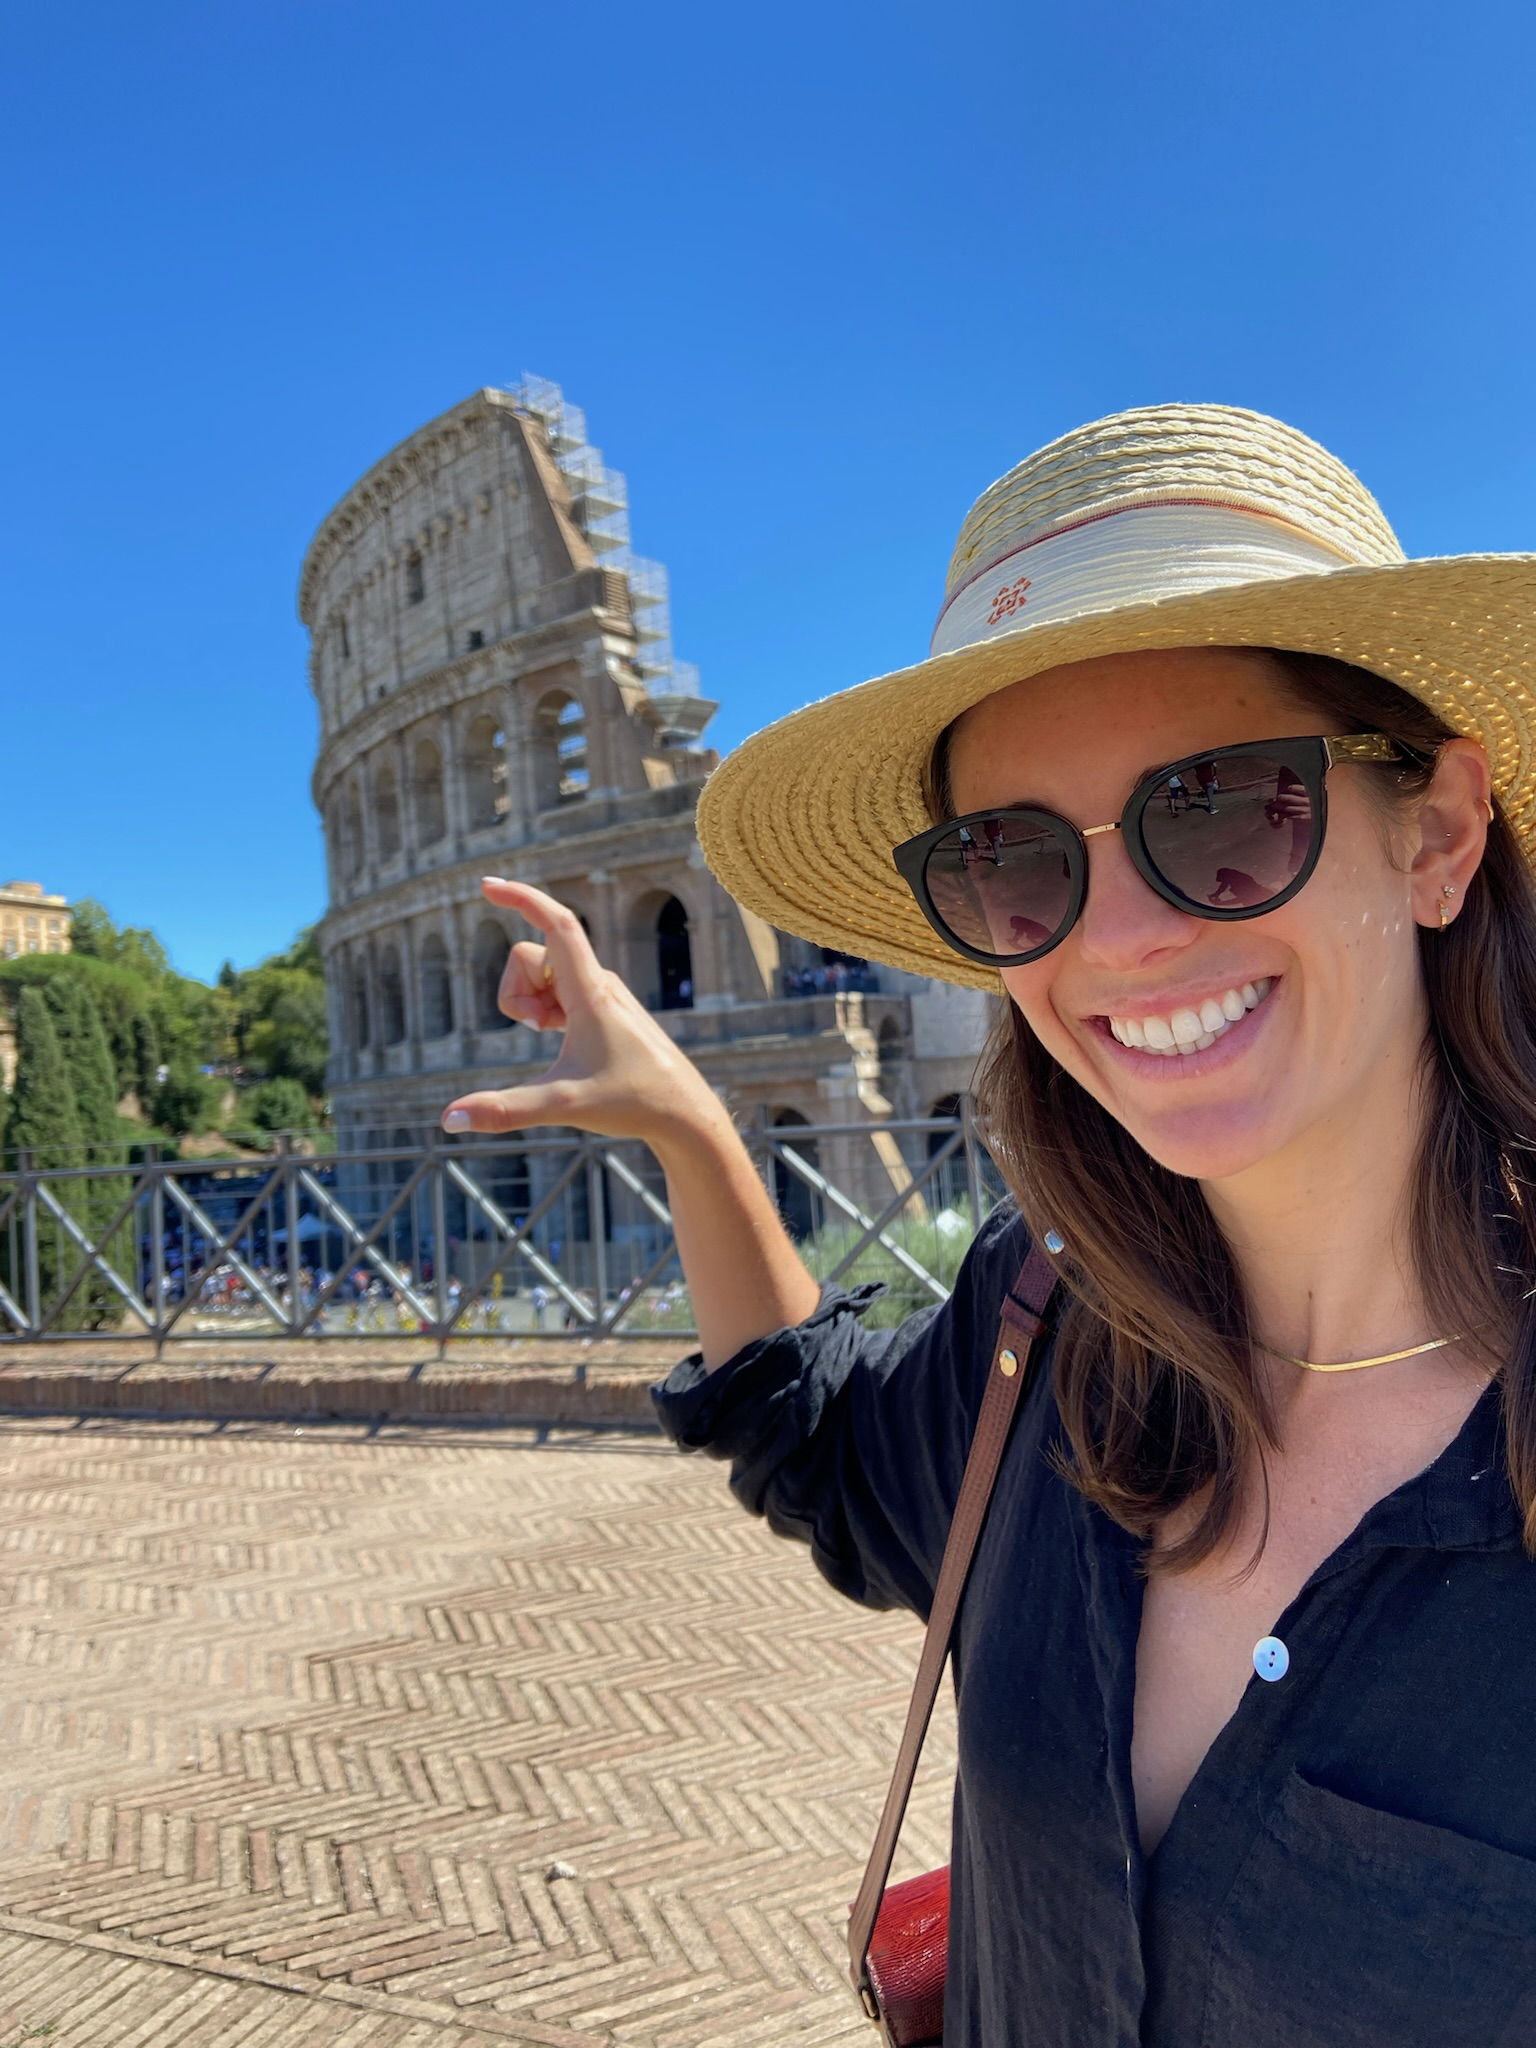
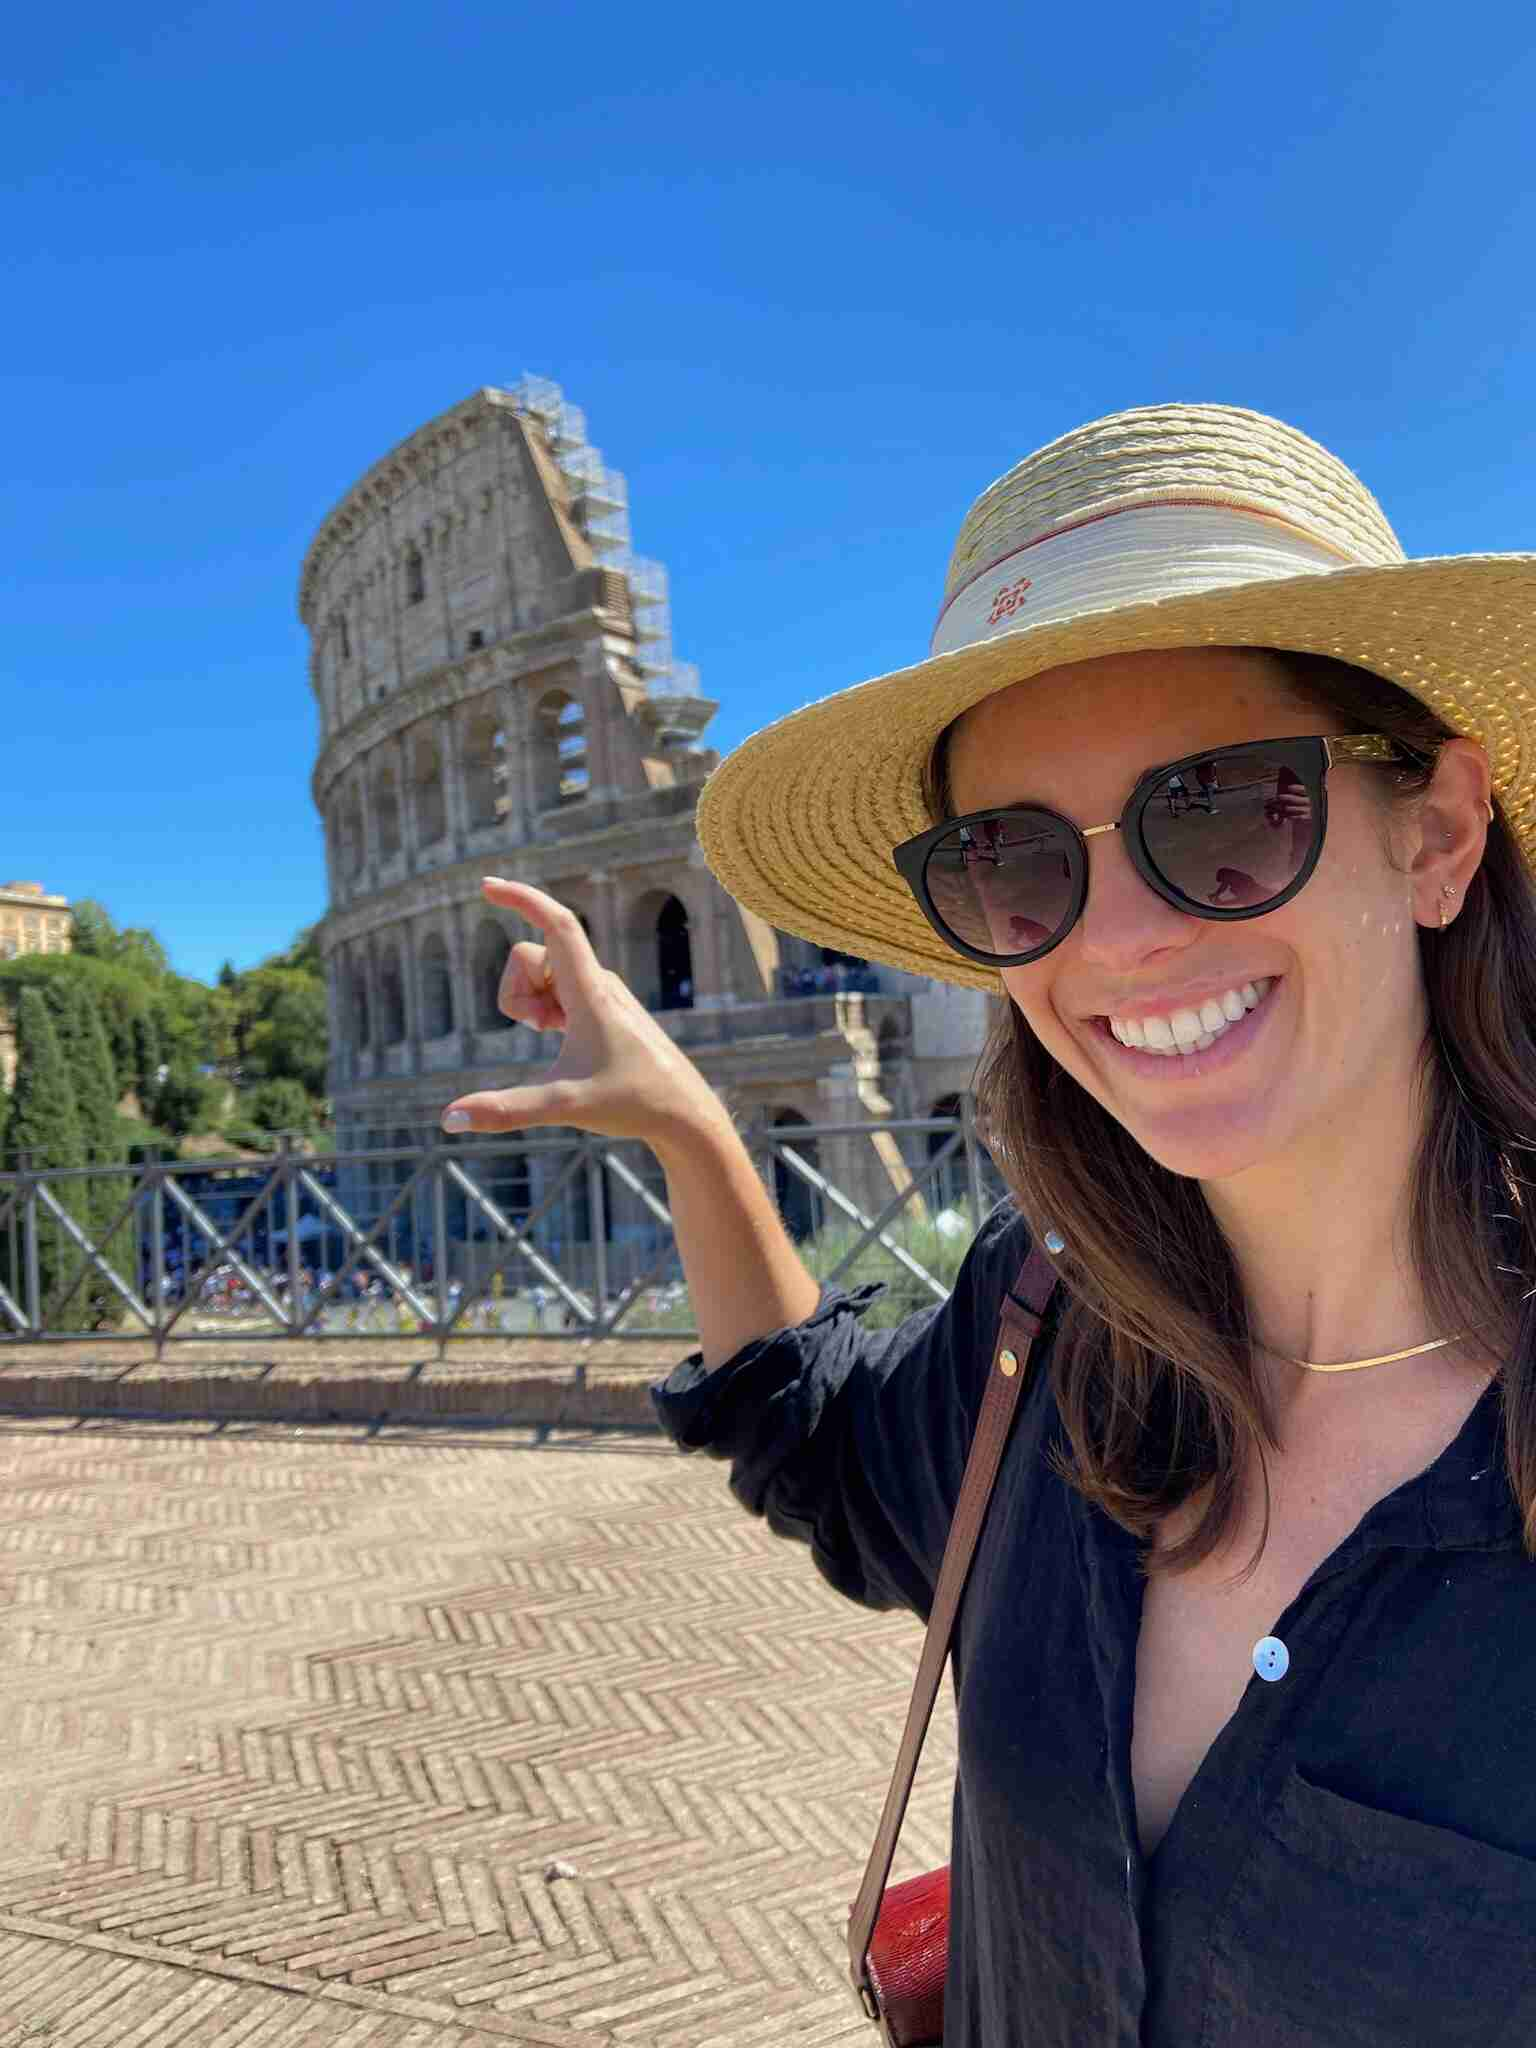
add news section and temporary card for styling

Changed region(s): [[0.8438, 0.2188, 0.875, 0.25], [0.6562, 0.2188, 0.6875, 0.25], [0.5625, 0.9375, 0.5938, 0.9688]]

diff --git a/src/components/NewsCards/NewsCards.jsx b/src/components/NewsCards/NewsCards.jsx
@@ -1,0 +1,28 @@
+import "./NewsCards.css";
+
+import placeholder from "../../assets/placeholder.jpg";
+
+function NewsCards() {
+  return (
+    <li className="news-card">
+      <div className="news-card__contents">
+        <img src={placeholder} alt="" className="news-card__image" />
+        <div className="news-card__text">
+          <p className="news-card__text-date">November 4, 2020</p>
+          <p className="news-card__text-title">
+            Everyone Needs a Special 'Sit Spot' in Nature
+          </p>
+          <p className="news-card__text-description">
+            Ever since I read Richard Louv's influential book, "Last Child in
+            the Woods," the idea of having a special "sit spot" has stuck with
+            me. This advice, which Louv attributes to nature educator Jon Young,
+            is for both adults and children to find...
+          </p>
+          <p className="news-card__text-source">TREEHUGGER</p>
+        </div>
+      </div>
+    </li>
+  );
+}
+
+export default NewsCards;

diff --git a/src/components/NewsCards/NewsCards.css b/src/components/NewsCards/NewsCards.css
@@ -1,0 +1,53 @@
+.news-card {
+  list-style-type: none;
+  border-radius: 16px;
+  overflow: hidden;
+  height: 576px;
+  width: 400px;
+  background-color: white;
+}
+
+.news-card__image {
+  width: 400px;
+  height: 272px;
+}
+
+.news-card__text {
+  padding: 20px 24px 24px 24px;
+}
+
+.news-card__text-date {
+  color: #b6bcbf;
+  font-family: "Inter", Helvetica, Arial, sans-serif;
+  font-size: 18px;
+  font-weight: 400;
+  line-height: 24px;
+  margin: 0;
+  padding-bottom: 12px;
+}
+
+.news-card__text-title {
+  color: #1a1b22;
+  font-family: "Roboto Slab", "Times New Roman", Times, serif;
+  font-size: 26px;
+  line-height: 30px;
+  margin: 0;
+  padding-bottom: 16px;
+}
+
+.news-card__text-description {
+  color: #1a1b22;
+  font-size: 16px;
+  line-height: 22px;
+  margin: 0;
+  padding-bottom: 18px;
+}
+
+.news-card__text-source {
+  color: #b6bcbf;
+  font-family: "Roboto Slab", "Times New Roman", Times, serif;
+  font-size: 16px;
+  font-weight: 700;
+  line-height: 20px;
+  margin: 0;
+}

diff --git a/src/components/Main/Main.css b/src/components/Main/Main.css
@@ -1,0 +1,29 @@
+.main {
+  margin: 0;
+  padding: 80px 104px;
+  background-color: #f5f6f7;
+}
+
+.main__title {
+  color: #1a1b22;
+  font-family: "Roboto Slab", "Times New Roman", Times, serif;
+  font-size: 40px;
+  line-height: 46px;
+  margin: 0 0 64px 0;
+}
+
+.main__btn-show-more {
+  background-color: #e8e8e8;
+  color: #1a1b22;
+  font-size: 18px;
+  font-weight: 500;
+  line-height: 24px;
+  width: 288px;
+  height: 64px;
+  border: none;
+  padding: 0;
+  border-radius: 80px;
+  align-items: center;
+  display: block;
+  margin: 0 auto;
+}

diff --git a/src/components/Header/Header.jsx b/src/components/Header/Header.jsx
@@ -3,10 +3,10 @@ import "./Header.css";
 import Navigation from "../Navigation/Navigation";
 import SearchForm from "../SearchForm/SearchForm";
 
-function Header() {
+function Header({ isLoggedIn }) {
   return (
     <section className="header">
-      <Navigation></Navigation>
+      <Navigation isLoggedIn={isLoggedIn}></Navigation>
       <div className="header__content">
         <div className="header__search">
           <h1 className="header__search_title">

diff --git a/src/components/App/App.jsx b/src/components/App/App.jsx
@@ -11,10 +11,12 @@ import About from "../About/About";
 import Footer from "../Footer/Footer";
 
 function App() {
+  const [isLoggedIn, setIsLoggedIn] = useState(false);
+
   return (
     <div className="page">
       <div className="page__content">
-        <Header></Header>
+        <Header isLoggedIn={isLoggedIn}></Header>
         <Routes>
           <Route path="/" element={<Main></Main>} />
         </Routes>

diff --git a/src/components/Main/Main.jsx b/src/components/Main/Main.jsx
@@ -1,5 +1,15 @@
 import "./Main.css";
 
-function Main() {}
+import NewsCardList from "../NewsCardList/NewsCardList";
+
+function Main() {
+  return (
+    <section className="main">
+      <p className="main__title">Search Results</p>
+      <NewsCardList></NewsCardList>
+      <button className="main__btn-show-more">Show more</button>
+    </section>
+  );
+}
 
 export default Main;

diff --git a/src/components/NewsCardList/NewsCardList.jsx b/src/components/NewsCardList/NewsCardList.jsx
@@ -1,0 +1,15 @@
+import "./NewsCardList.css";
+
+import NewsCards from "../NewsCards/NewsCards";
+
+function NewsCardList() {
+  return (
+    <section className="news">
+      <ul className="news-card-list">
+        <NewsCards></NewsCards>
+      </ul>
+    </section>
+  );
+}
+
+export default NewsCardList;

diff --git a/src/components/NewsCardList/NewsCardList.css b/src/components/NewsCardList/NewsCardList.css
@@ -1,0 +1,7 @@
+.news-card-list {
+  display: grid;
+  grid-template-columns: repeat(auto-fit, 400px);
+  gap: 16px;
+  margin: 0;
+  padding: 0 0 64px 0;
+}
